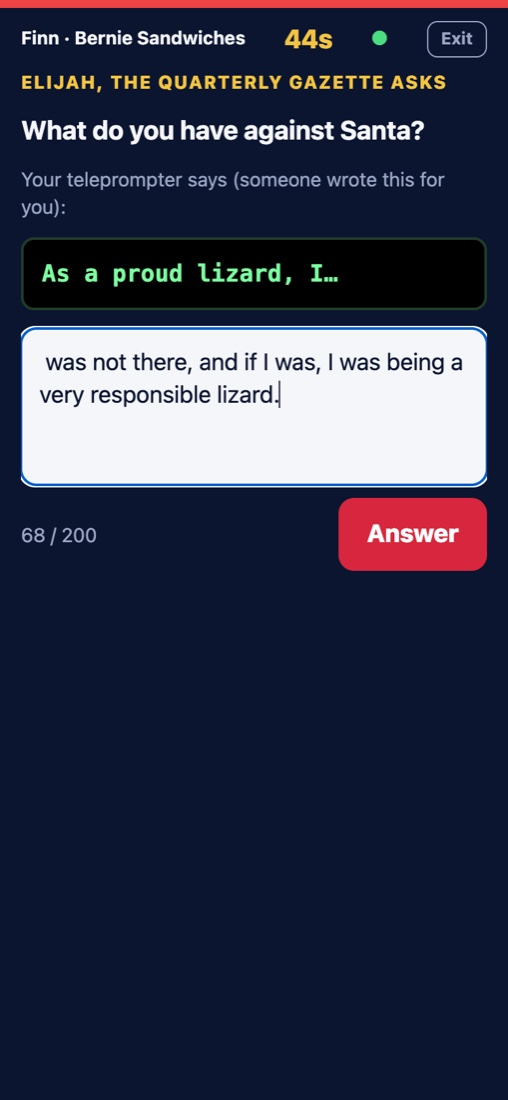
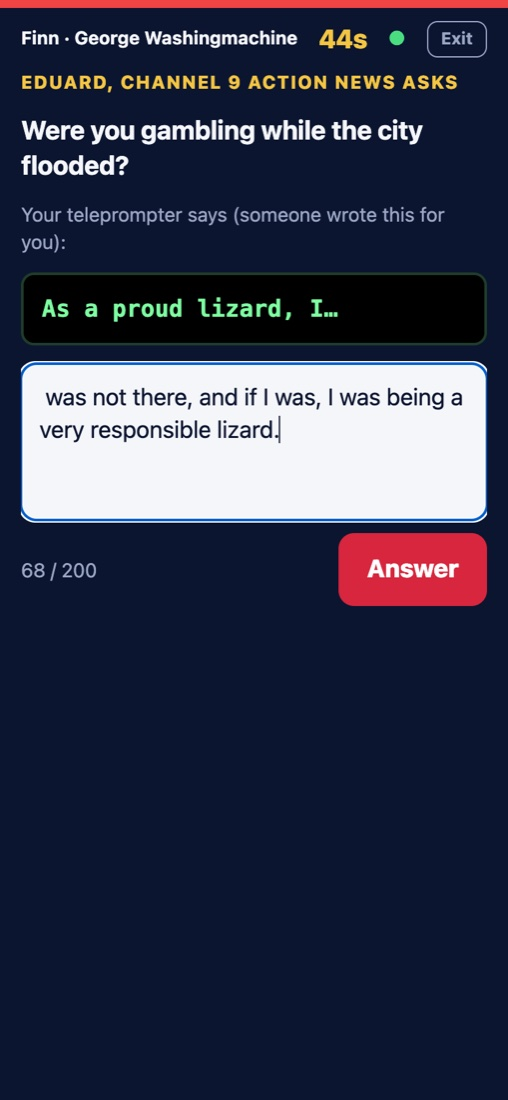
README: new cast, the slip and GOTCHA, fresh screenshots

Changed region(s): [[0.0295, 0.0, 0.9744, 0.4018], [0.0295, 0.4327, 0.9744, 0.5564]]

diff --git a/README.md b/README.md
@@ -4,44 +4,54 @@
 
 A party game about politics. The game runs on a TV or laptop screen, 2–6 players scan a QR code to join, and their phones become the controllers. One player takes the podium as a cartoon politician; everyone else is the press.
 
-![A politician answers a question at the podium while the press room watches](docs/screenshots/tv-hearing.jpg)
+![George Washingmachine releases a duck at the podium while his answer plays](docs/screenshots/tv-slip.jpg)
 
 ## How a round works
 
-1. **Breaking news.** The anchor reads a scandal about the politician at the podium ("Bernie Sandwiches accused of cancelling Christmas").
+1. **Breaking news.** The anchor reads a scandal about the politician at the podium ("George Washingmachine photographed at a casino during the flood").
 2. **The press asks.** Every journalist writes a question on their phone, then votes for the best one. The TV reads the winner aloud in a reporter's voice.
 3. **Someone hacks the teleprompter.** One journalist secretly writes how the politician's answer starts ("As a proud lizard, I…").
 4. **The politician answers.** They see the opener on their phone and have to finish the sentence, live.
 5. **The hearing.** The TV plays the full answer in the politician's AI-generated voice while the press throws tomatoes, boos and laughs, and the approval meter swings.
-6. **The verdict.** Journalists rate the answer 1–5 stars and the saboteur is revealed. Everyone takes the podium once; most points wins.
+6. **The slip.** While the press is busy with their phones, the politician can secretly do something shady on the TV, once a round: pocket the cash, read a cheat sheet, release a duck or take a bribe. It's on screen for about a second. Journalists who were watching hit **GOTCHA** within 2.5 seconds for +150 (a wrong GOTCHA costs 50); the politician gets +100 for every journalist who missed it.
+7. **The verdict.** Journalists rate the answer 1–5 stars, the saboteur is revealed, and the TV replays the slip at half speed with who caught it. Everyone takes the podium once; most points wins.
 
-The cast is eight cartoon parodies: Donald Frump, Barack O'Banana, Joe Bidet, Hillary Clingfilm, Bernie Sandwiches, Kamala Harrass, George W. Shrub and Abraham Stinkoln.
+The cast is eight cartoon parodies: Donald Frump, Barack O'Llama, Joe Bidet, JD Pants, Bernie Sandwiches, Kamala Harrass, George Washingmachine and Abraham Stinkoln.
 
 <table>
   <tr>
-    <td width="50%"><img src="docs/screenshots/tv-lobby.jpg" alt="TV lobby with the QR code to join" /></td>
-    <td width="50%"><img src="docs/screenshots/tv-results.jpg" alt="Final results on the TV" /></td>
+    <td width="33%"><img src="docs/screenshots/tv-lobby.jpg" alt="TV lobby with the QR code to join" /></td>
+    <td width="33%"><img src="docs/screenshots/tv-replay.jpg" alt="Half-speed replay of the slip, with who caught it" /></td>
+    <td width="33%"><img src="docs/screenshots/tv-results.jpg" alt="Final results on the TV" /></td>
   </tr>
   <tr>
     <td align="center">Scan to join</td>
+    <td align="center">The replay</td>
     <td align="center">Final results</td>
   </tr>
 </table>
 
-<p>
-  <img src="docs/screenshots/phone-create.jpg" alt="Phone: pick your politician" width="240" />
-  &nbsp;&nbsp;
-  <img src="docs/screenshots/phone-answer.jpg" alt="Phone: the politician finishes the sabotaged answer" width="240" />
-</p>
-
-Phones: pick your politician, then finish whatever the saboteur put on your teleprompter.
+<table>
+  <tr>
+    <td><img src="docs/screenshots/phone-create.jpg" alt="Phone: pick your politician" width="180" /></td>
+    <td><img src="docs/screenshots/phone-answer.jpg" alt="Phone: the politician finishes the sabotaged answer" width="180" /></td>
+    <td><img src="docs/screenshots/phone-slip.jpg" alt="Phone: the politician picks a slip" width="180" /></td>
+    <td><img src="docs/screenshots/phone-gotcha.jpg" alt="Phone: a journalist's GOTCHA button and heckles" width="180" /></td>
+  </tr>
+  <tr>
+    <td align="center">Pick your politician</td>
+    <td align="center">Finish the teleprompter</td>
+    <td align="center">Slip up</td>
+    <td align="center">GOTCHA and heckle</td>
+  </tr>
+</table>
 
 ## Team
 
 | | Built |
 |---|---|
 | [Eduard Dehelean](https://github.com/end13s) | Game server, phases and scoring, rooms, bots, the message list |
-| [Finn Murray](https://github.com/finnmurray1) | Front end: TV game screen, phone controller, character creator and the press-room scene |
+| [Finn Murray](https://github.com/finnmurray1) | Front end (TV game screen, phone controller, character creator, press-room scene) and the slip / GOTCHA mechanic |
 | Elijah Brough | Voices, sound effects, music, and game writing (headlines, questions, characters) |
 
 ## Stack
